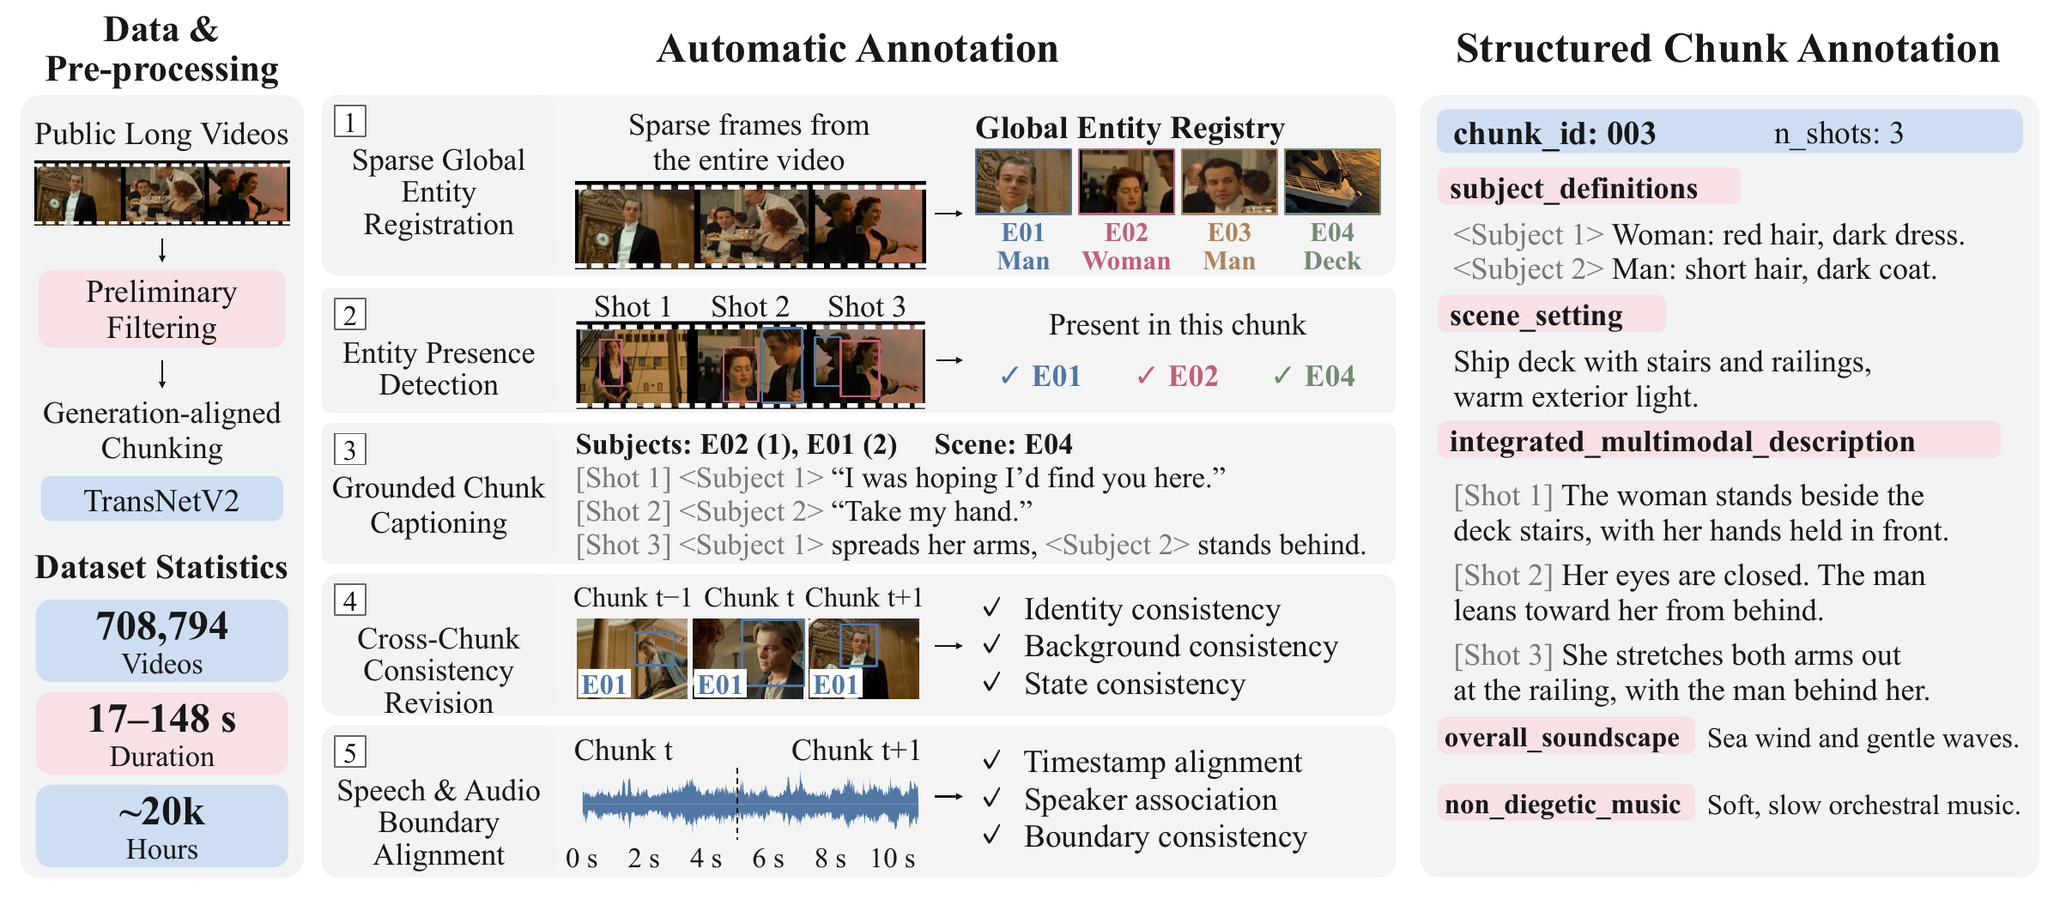
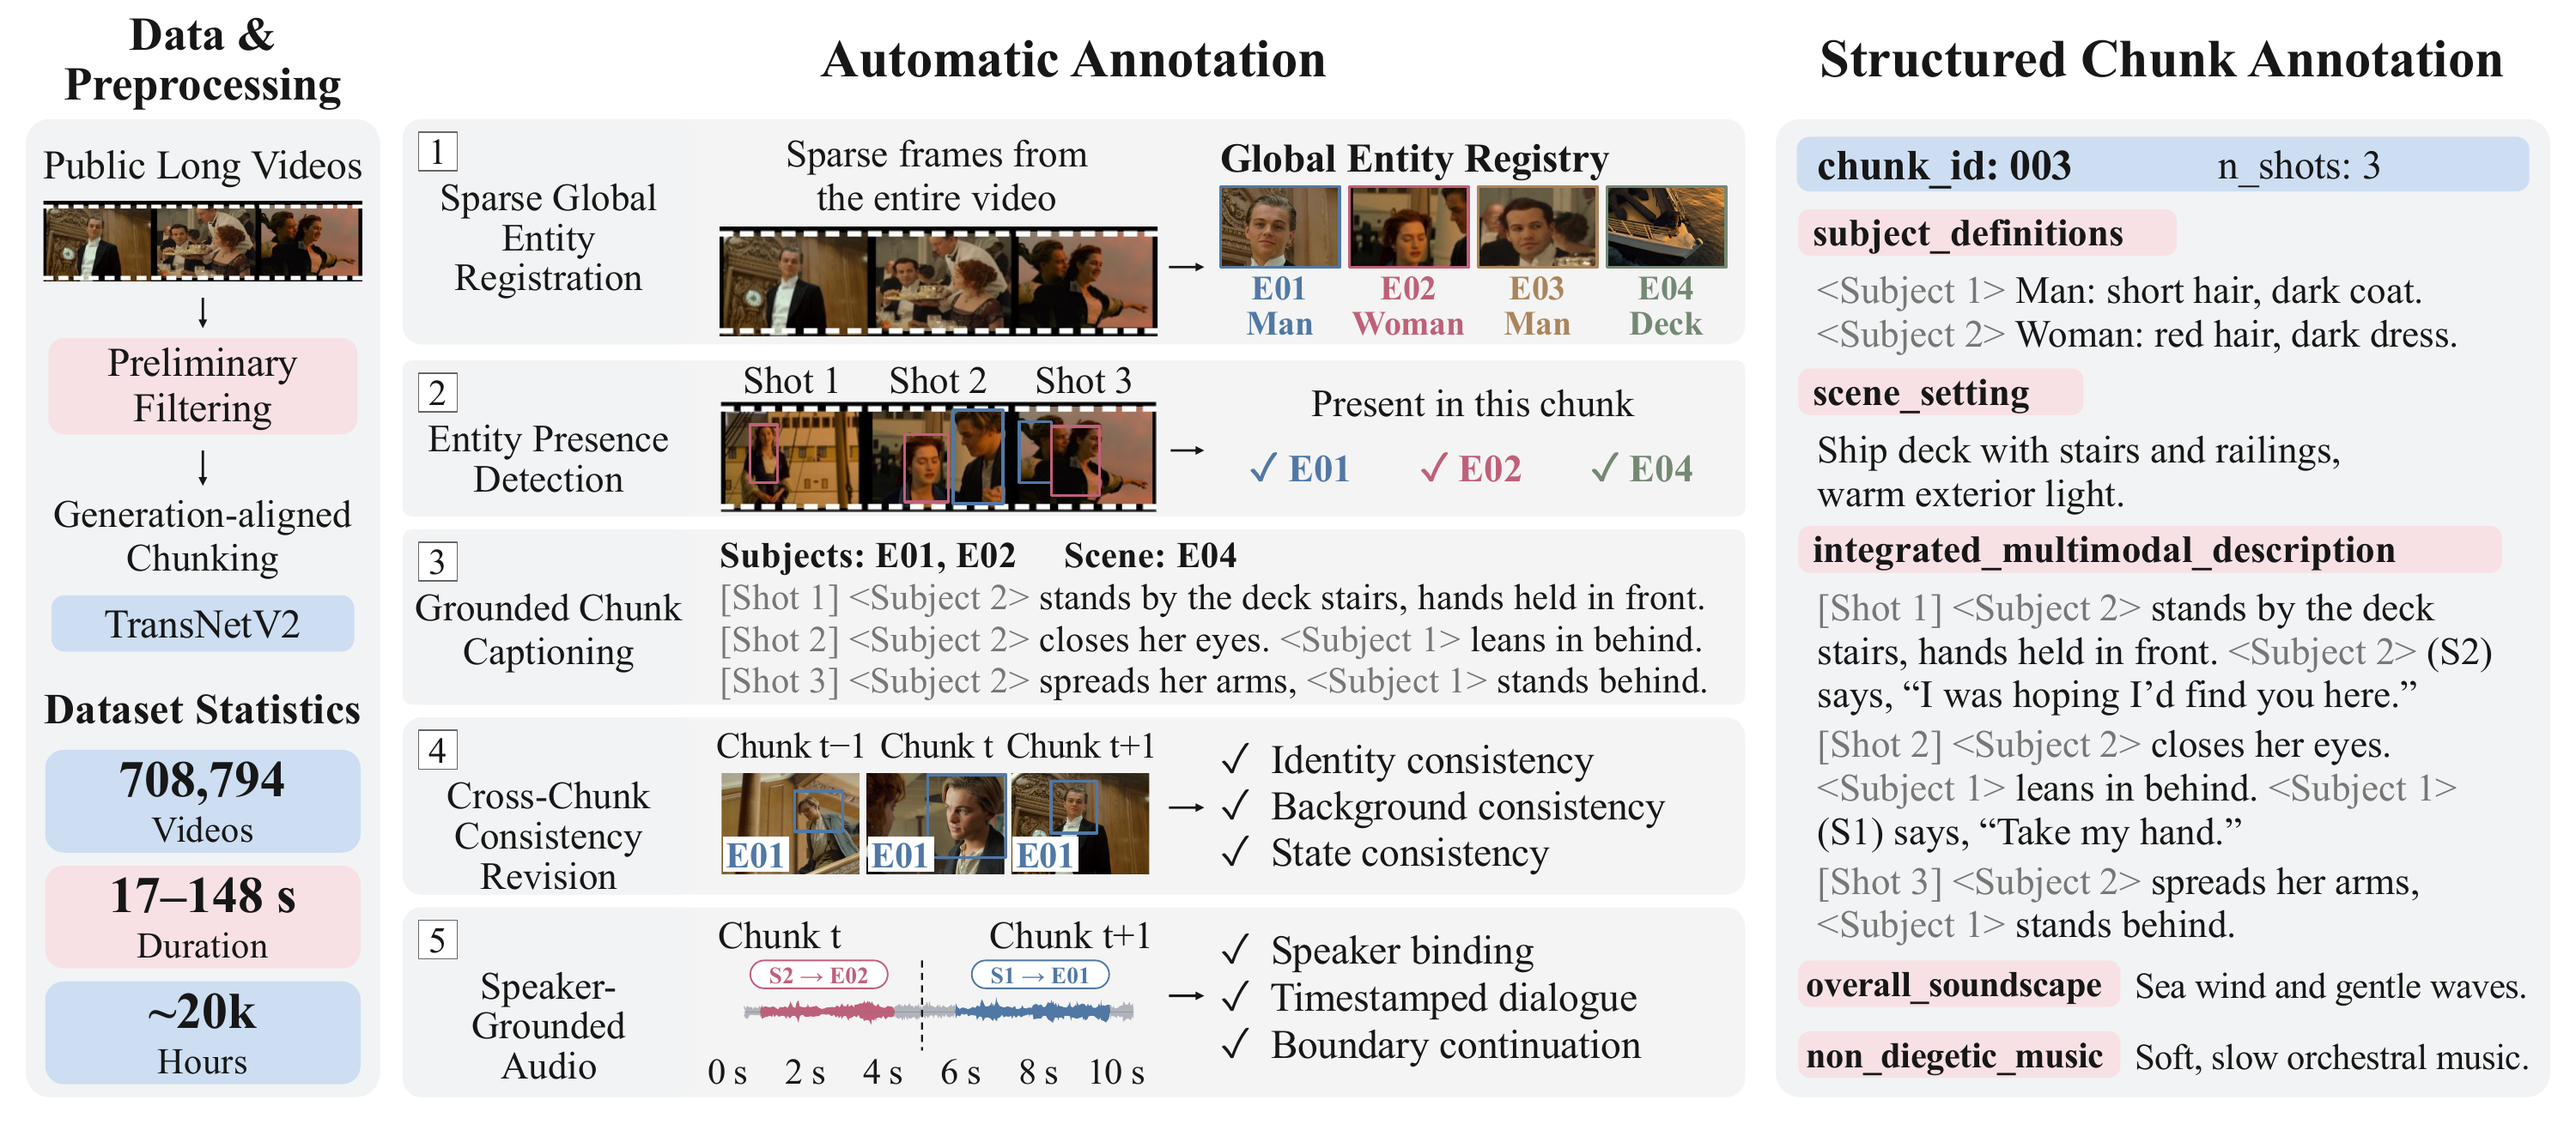
Sync dataset construction figure with speaker-grounded audio pipeline

diff --git a/index.html b/index.html
@@ -957,8 +957,8 @@
       <h2 id="pipelines-title">Method</h2>
       <article class="pipeline-figure">
         <h3>Dataset Construction Pipeline</h3>
-        <p>To build CineLong-709K, a shared entity registry anchors local presence detection and captioning; sequence-level revision reconciles descriptions, followed by speech-boundary alignment.</p>
-        <img src="./figures/dataset-construction-pipeline.png" alt="Dataset construction pipeline of CineLong-709K, from global entity registration through local captioning, cross-chunk revision, and speech-boundary alignment.">
+        <p>To build CineLong-709K, a shared entity registry anchors local presence detection and visual captioning. Cross-chunk revision reconciles descriptions, followed by speaker-grounded audio annotation that binds timestamped dialogue to registered characters and marks continuation across chunk boundaries.</p>
+        <img src="./figures/dataset-construction-pipeline.png?v=speaker-grounded-audio" alt="Dataset construction pipeline of CineLong-709K, from global entity registration through local visual captioning, cross-chunk revision, and speaker-grounded audio with speaker binding, timestamped dialogue, and boundary continuation.">
       </article>
       <article class="pipeline-figure">
         <h3>Overall Pipeline</h3>
